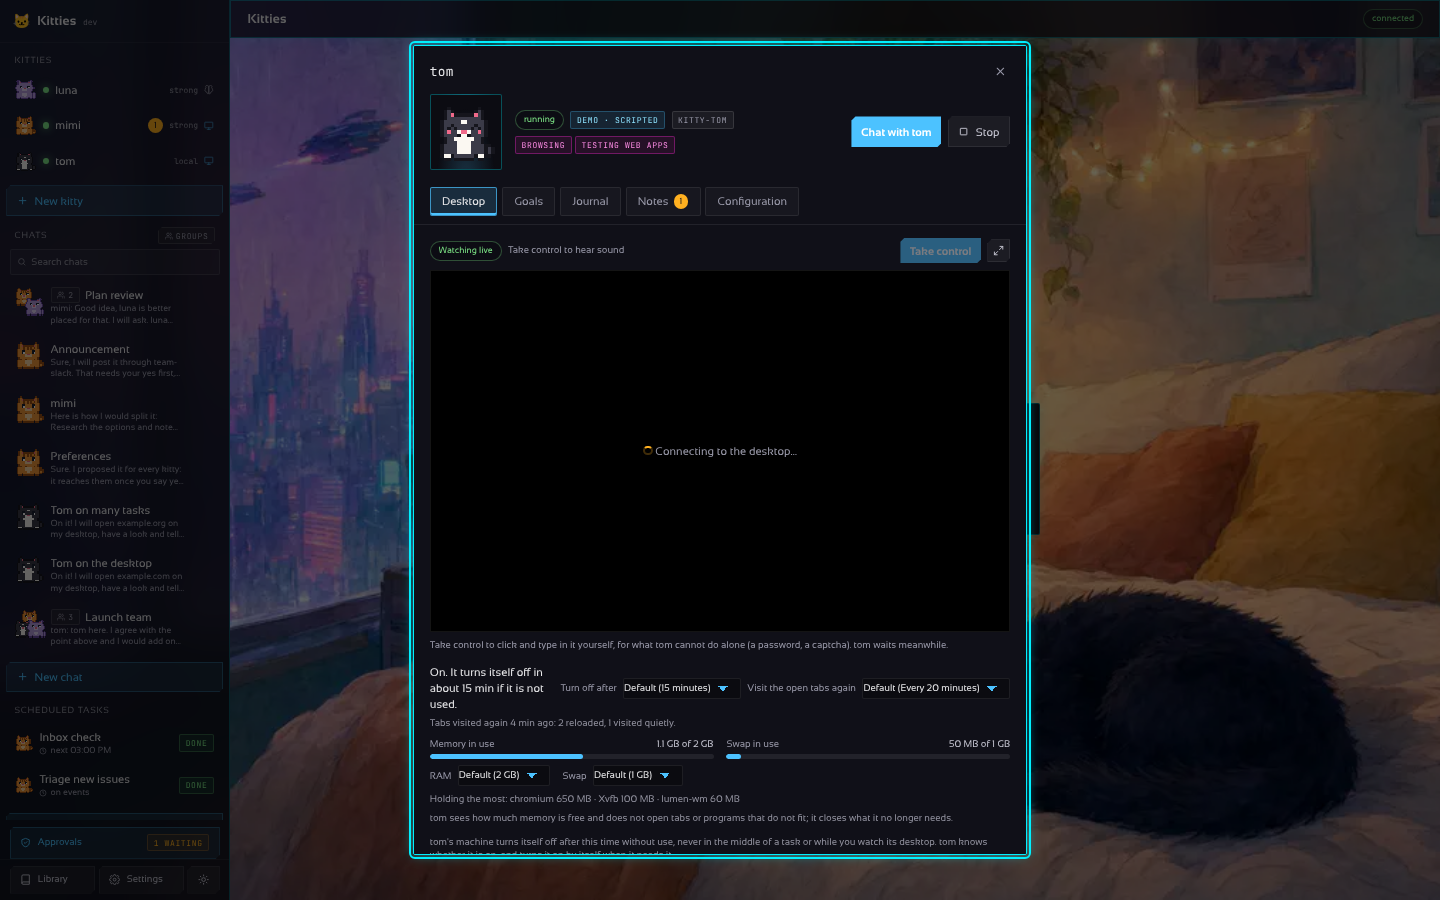
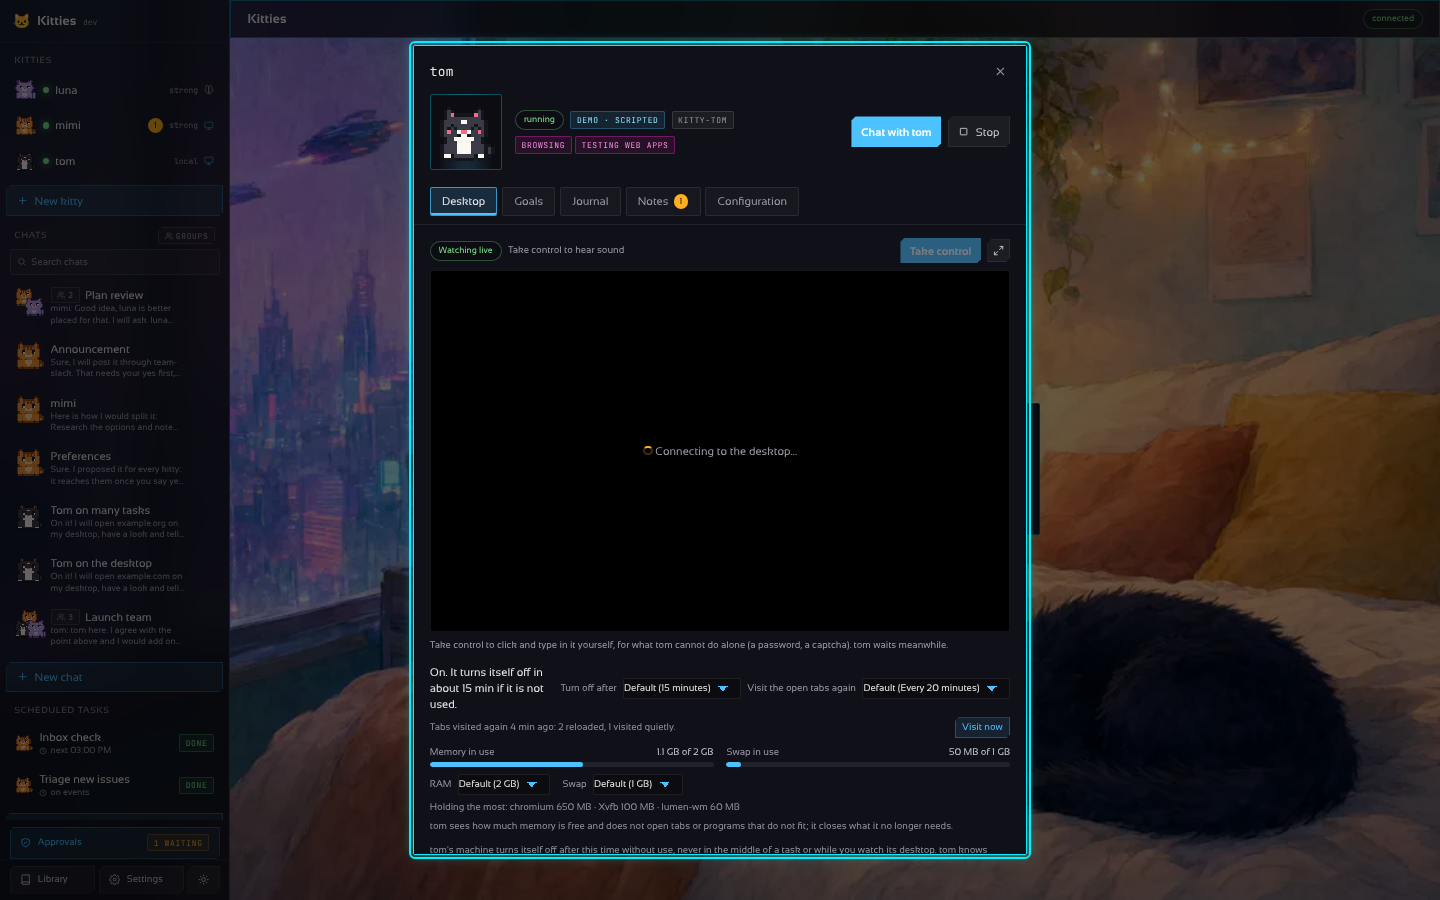
feat(machines): botón «Visitar ahora» para las pestañas del navegador
- POST /v1/kitties/{ref}/browser/visit corre kitty-refresh --once y devuelve
  browser_visits; la máquina debe estar encendida.
- Botón en la ventana del kitty (Escritorio) junto a la última visita (EN/ES/PT).
- Tests Go (orquestador y gateway), demo, e2e, captura (docs y landing), docs.

Claude-Session: https://claude.ai/code/session_017Z7sUbKAKG6YcFUj1UzYkm

Changed region(s): [[0.2812, 0.7778, 0.6875, 0.9644], [0.6562, 0.8089, 0.7188, 0.84]]

diff --git a/desktop/frontend/src/MachinePower.tsx b/desktop/frontend/src/MachinePower.tsx
@@ -91,6 +91,7 @@ export default function MachinePower({
   const [power, setPower] = useState<Power | null>(null);
   const [memory, setMemory] = useState<Memory | undefined>(undefined);
   const [visits, setVisits] = useState<BrowserVisits | undefined>(undefined);
+  const [visiting, setVisiting] = useState(false);
   const [err, setErr] = useState("");
   const load = () =>
     api
@@ -131,6 +132,17 @@ export default function MachinePower({
         : { browser_refresh_minutes: Number(value) },
     );
   const refresh = power.browser_refresh_minutes;
+  const visitNow = async () => {
+    setErr("");
+    setVisiting(true);
+    try {
+      setVisits((await api.visitBrowser(kitty.id)).browser_visits);
+    } catch (e) {
+      setErr(errText(e));
+    } finally {
+      setVisiting(false);
+    }
+  };
   const refreshText = (n: number) => (n === 0 ? t("Never") : t("Every {n} minutes", { n }));
   const choices = IDLE_CHOICES.includes(power.auto_off_minutes)
     ? IDLE_CHOICES
@@ -184,10 +196,21 @@ export default function MachinePower({
           </label>
         )}
       </div>
-      {visits && refresh !== 0 && (
-        <p class="text-xs text-[var(--t4)]" data-testid="browser-visits">
-          {visitsText(visits)}
-        </p>
+      {power.state === "on" && refresh !== undefined && (
+        <div class="flex items-center gap-2 flex-wrap text-xs text-[var(--t4)]">
+          <span class="flex-1 min-w-0" data-testid="browser-visits">
+            {visits ? visitsText(visits) : t("The tabs have not been visited again yet.")}
+          </span>
+          <button
+            type="button"
+            class="btn-outline px-2 py-1 text-xs"
+            disabled={visiting}
+            onClick={() => void visitNow()}
+            data-testid="visit-now"
+          >
+            {visiting ? t("Visiting…") : t("Visit now")}
+          </button>
+        </div>
       )}
       <MachineMemory
         kitty={kitty}

diff --git a/desktop/frontend/src/i18n/es/settings.ts b/desktop/frontend/src/i18n/es/settings.ts
@@ -540,6 +540,9 @@ const dict: Dictionary = {
   "Tabs visited again {when}: none open.": "Pestañas visitadas de nuevo {when}: ninguna abierta.",
   "Tabs visited again {when}: {reloaded} reloaded, {quiet} visited quietly.":
     "Pestañas visitadas de nuevo {when}: {reloaded} recargadas, {quiet} visitadas en silencio.",
+  "The tabs have not been visited again yet.": "Las pestañas aún no se han vuelto a visitar.",
+  "Visiting…": "Visitando…",
+  "Visit now": "Visitar ahora",
   "Every {n} minutes": "Cada {n} minutos",
   "Sites like Gmail end a session that sits idle. The browser of each kitty visits its tabs again: it reloads only the ones nobody is using and visits the rest quietly, so nothing typed is lost and the screen does not change.":
     "Sitios como Gmail cierran una sesión inactiva. El navegador de cada kitty vuelve a visitar sus pestañas: recarga solo las que nadie usa y visita las demás en silencio, así no se pierde nada escrito y la pantalla no cambia.",

diff --git a/desktop/frontend/src/i18n/pt/settings.ts b/desktop/frontend/src/i18n/pt/settings.ts
@@ -539,6 +539,9 @@ const dict: Dictionary = {
   "Tabs visited again {when}: none open.": "Abas visitadas de novo {when}: nenhuma aberta.",
   "Tabs visited again {when}: {reloaded} reloaded, {quiet} visited quietly.":
     "Abas visitadas de novo {when}: {reloaded} recarregadas, {quiet} visitadas em silêncio.",
+  "The tabs have not been visited again yet.": "As abas ainda não foram visitadas de novo.",
+  "Visiting…": "Visitando…",
+  "Visit now": "Visitar agora",
   "Every {n} minutes": "A cada {n} minutos",
   "Sites like Gmail end a session that sits idle. The browser of each kitty visits its tabs again: it reloads only the ones nobody is using and visits the rest quietly, so nothing typed is lost and the screen does not change.":
     "Sites como o Gmail encerram uma sessão parada. O navegador de cada kitty visita de novo as suas abas: recarrega só as que ninguém está usando e visita as outras em silêncio, assim nada digitado se perde e a tela não muda.",

diff --git a/desktop/frontend/e2e/screens.spec.ts b/desktop/frontend/e2e/screens.spec.ts
@@ -4115,6 +4115,9 @@ test("a kitty's machine is turned on and off and has its own idle time", async (
   await expect(power.getByTestId("browser-visits")).toContainText(
     "4 min ago: 2 reloaded, 1 visited quietly",
   );
+  // Visit now: the tabs are visited again at once.
+  await power.getByTestId("visit-now").click();
+  await expect(power.getByTestId("browser-visits")).toContainText("just now: 3 reloaded");
   // How often its browser visits its tabs again: the default for every kitty, or its own.
   const refresh = power.getByTestId("browser-refresh");
   await expect(refresh).toHaveValue("default");

diff --git a/desktop/frontend/src/api.ts b/desktop/frontend/src/api.ts
@@ -977,6 +977,9 @@ export const api = {
       "GET",
       `/v1/kitties/${ref}/power`,
     ),
+  // visitBrowser visits the open tabs of a kitty's browser again now (their sessions renewed).
+  visitBrowser: (ref: string) =>
+    request<{ browser_visits: BrowserVisits }>("POST", `/v1/kitties/${ref}/browser/visit`),
   // machines are the RAM and swap of the machines without values of their own.
   machines: () => request<Machines>("GET", "/v1/settings/machines"),
   setMachines: (m: { memory_mb: number; swap_mb: number; browser_refresh_minutes?: number }) =>

diff --git a/internal/demo/demo.go b/internal/demo/demo.go
@@ -276,12 +276,13 @@ type Desktop struct {
 	running map[string]bool
 	opened  map[string]string
 	clicks  map[string]int
-	clip    map[string]string // the clipboard of each display
+	clip    map[string]string    // the clipboard of each display
+	visited map[string]time.Time // when kitty-refresh last visited the tabs, by display
 }
 
 // NewDesktop creates the demo runtime.
 func NewDesktop() *Desktop {
-	return &Desktop{running: map[string]bool{}, opened: map[string]string{}, clicks: map[string]int{}, clip: map[string]string{}}
+	return &Desktop{running: map[string]bool{}, opened: map[string]string{}, clicks: map[string]int{}, clip: map[string]string{}, visited: map[string]time.Time{}}
 }
 
 // Up implements orchestrator.Containers.
@@ -353,10 +354,16 @@ func (d *Desktop) Exec(_ context.Context, name string, argv ...string) (string, 
 		return d.clip[name], nil
 	case "cat":
 		if len(argv) == 2 && argv[1] == kitty.BrowserVisitsFile {
-			// A drawn browser whose tabs were visited a few minutes ago.
+			// A drawn browser whose tabs were visited a few minutes ago, or just now when asked.
+			if at, ok := d.visited[name]; ok {
+				return fmt.Sprintf(`{"at": %d, "tabs": 3, "reloaded": 3, "quiet": 0, "kept": 0, "skipped": 0}`, at.Unix()), nil
+			}
 			return fmt.Sprintf(`{"at": %d, "tabs": 3, "reloaded": 2, "quiet": 1, "kept": 0, "skipped": 0}`, time.Now().Add(-4*time.Minute).Unix()), nil
 		}
 		return "(demo) " + strings.Join(argv, " ") + "\n", nil
+	case "kitty-refresh":
+		d.visited[name] = time.Now()
+		return "(demo) the tabs were visited again\n", nil
 	case "kitty-theme":
 		return "theme " + strings.Join(argv[1:], " "), nil
 	case "sh":

diff --git a/internal/gateway/desktop.go b/internal/gateway/desktop.go
@@ -36,6 +36,7 @@ func (s *Server) desktopRoutes() {
 	s.mux.Handle("POST /v1/desktops/updates", api(s.handleUpdateDesktops))
 	s.mux.Handle("GET /v1/kitties/{ref}/power", api(s.handlePower))
 	s.mux.Handle("POST /v1/kitties/{ref}/power", api(s.handleSetPower))
+	s.mux.Handle("POST /v1/kitties/{ref}/browser/visit", api(s.handleVisitBrowser))
 	s.mux.Handle("GET /v1/settings/machines", api(s.handleMachines))
 	s.mux.Handle("PUT /v1/settings/machines", api(s.handleSetMachines))
 }
@@ -48,6 +49,27 @@ type MemoryReader interface {
 // VisitReader is what the last pass over a machine's browser tabs did (kitty-refresh).
 type VisitReader interface {
 	BrowserVisits(ctx context.Context, ref string) (kitty.BrowserVisits, bool)
+}
+
+// Visitor visits a machine's browser tabs again now.
+type Visitor interface {
+	VisitBrowserNow(ctx context.Context, ref string) (kitty.BrowserVisits, error)
+}
+
+// handleVisitBrowser visits the open tabs of a kitty's browser again now, so their sessions are
+// renewed: {"browser_visits": {...}} with what it did.
+func (s *Server) handleVisitBrowser(w http.ResponseWriter, r *http.Request) {
+	v, ok := s.fleet.(Visitor)
+	if !ok {
+		fail(w, http.StatusNotFound, errors.New("this gateway cannot visit the browser's tabs"))
+		return
+	}
+	visits, err := v.VisitBrowserNow(r.Context(), r.PathValue("ref"))
+	if err != nil {
+		fail(w, powerCode(err), err)
+		return
+	}
+	reply(w, http.StatusOK, map[string]any{"browser_visits": visits})
 }
 
 // Machiner is the RAM and swap every kitty's machine gets unless it has its own.

diff --git a/internal/gateway/machines_test.go b/internal/gateway/machines_test.go
@@ -28,6 +28,13 @@ func (m *memoryFleet) BrowserVisits(context.Context, string) (kitty.BrowserVisit
 	return kitty.BrowserVisits{At: time.Unix(1794000000, 0).UTC(), Tabs: 2, Reloaded: 1, Quiet: 1}, true
 }
 
+func (m *memoryFleet) VisitBrowserNow(_ context.Context, ref string) (kitty.BrowserVisits, error) {
+	if ref != "ana" {
+		return kitty.BrowserVisits{}, errors.New("no such kitty")
+	}
+	return kitty.BrowserVisits{At: time.Unix(1794000600, 0).UTC(), Tabs: 2, Reloaded: 2}, nil
+}
+
 func (m *memoryFleet) Machines() orchestrator.MachinesView {
 	return orchestrator.MachinesView{MachineDefaults: m.defaults, EngineMB: 8192}
 }
@@ -61,6 +68,14 @@ func TestMachinesAndMemory(t *testing.T) {
 	}
 	if v, _ := got["browser_visits"].(map[string]any); v["tabs"] != float64(2) || v["reloaded"] != float64(1) {
 		t.Errorf("power with the last visit to its tabs: %v", got)
+	}
+	if code, got, _ := call(t, srv, "POST", "/v1/kitties/ana/browser/visit", "tok", nil); code != 200 {
+		t.Errorf("visit now = %d %v", code, got)
+	} else if v, _ := got["browser_visits"].(map[string]any); v["reloaded"] != float64(2) {
+		t.Errorf("visit now = %v", got)
+	}
+	if code, _, _ := call(t, plain, "POST", "/v1/kitties/ana/browser/visit", "tok", nil); code != 404 {
+		t.Errorf("without a visitor = %d", code)
 	}
 	m.memErr = errors.New("cannot tell")
 	if _, got, _ = call(t, srv, "GET", "/v1/kitties/ana/power", "tok", nil); got["memory"] != nil {

diff --git a/internal/orchestrator/memory.go b/internal/orchestrator/memory.go
@@ -3,6 +3,7 @@ package orchestrator
 import (
 	"context"
 	"errors"
+	"fmt"
 	"strconv"
 	"sync"
 	"time"
@@ -279,6 +280,32 @@ func (m *Manager) BrowserVisits(ctx context.Context, ref string) (kitty.BrowserV
 		return kitty.BrowserVisits{}, false
 	}
 	return kitty.ParseBrowserVisits(out)
+}
+
+// VisitBrowserNow visits the open tabs of a kitty's browser again now (kitty-refresh --once):
+// the tabs nobody is using are reloaded, the rest visited quietly. The machine must be on; it does
+// not count as a use of it.
+func (m *Manager) VisitBrowserNow(ctx context.Context, ref string) (kitty.BrowserVisits, error) {
+	k, err := m.Get(ref)
+	if err != nil {
+		return kitty.BrowserVisits{}, err
+	}
+	if !k.Desktop {
+		return kitty.BrowserVisits{}, kitty.ErrNoMachine
+	}
+	if k.Status != kitty.StatusRunning {
+		return kitty.BrowserVisits{}, errors.New(k.Name + "'s machine is not on")
+	}
+	run, cancel := context.WithTimeout(ctx, 90*time.Second)
+	defer cancel()
+	if _, err := m.ctr().Exec(run, k.Container, kitty.VisitNowArgv...); err != nil {
+		return kitty.BrowserVisits{}, fmt.Errorf("the tabs could not be visited: %w", err)
+	}
+	v, ok := m.BrowserVisits(ctx, k.ID)
+	if !ok {
+		return kitty.BrowserVisits{}, errors.New("the browser did not say what it visited (is it open?)")
+	}
+	return v, nil
 }
 
 // forgetMemory drops the last reading of a machine, after something changed it.

diff --git a/internal/orchestrator/memory_test.go b/internal/orchestrator/memory_test.go
@@ -275,3 +275,29 @@ func TestMemoryReading(t *testing.T) {
 		t.Error("a machine that is off")
 	}
 }
+
+func TestVisitBrowserNow(t *testing.T) {
+	m, f, solo := limitManager(t)
+	ctx := context.Background()
+	if _, err := m.VisitBrowserNow(ctx, solo.ID); err == nil {
+		t.Error("a machine that is off visited its tabs")
+	}
+	m.mu.Lock()
+	m.kitties[solo.ID].Status = kitty.StatusRunning
+	m.mu.Unlock()
+	if f.outputs == nil {
+		f.outputs = map[string]string{}
+	}
+	if _, err := m.VisitBrowserNow(ctx, solo.ID); err == nil {
+		t.Error("no summary is an error")
+	}
+	f.outputs["cat"] = `{"at": 1794000000, "tabs": 2, "reloaded": 2}`
+	f.execs = nil
+	v, err := m.VisitBrowserNow(ctx, solo.ID)
+	if err != nil || v.Reloaded != 2 || v.Tabs != 2 {
+		t.Fatalf("visits = %+v %v", v, err)
+	}
+	if got := strings.Join(f.execs, "\n"); !strings.Contains(got, "kitty-refresh --once") || !strings.Contains(got, kitty.BrowserVisitsFile) {
+		t.Errorf("execs = %q", got)
+	}
+}

diff --git a/internal/kitty/visits.go b/internal/kitty/visits.go
@@ -9,6 +9,9 @@ import (
 // counts only, never an address or what a page says.
 const BrowserVisitsFile = "/dev/shm/kitty-refresh.json"
 
+// VisitNowArgv visits the open tabs again now, with the same care as the timed passes.
+var VisitNowArgv = []string{"kitty-refresh", "--once"}
+
 // BrowserVisitsArgv prints it (nothing when no pass has run yet).
 var BrowserVisitsArgv = []string{"cat", BrowserVisitsFile}
 

diff --git a/docs/API.md b/docs/API.md
@@ -8,6 +8,7 @@
 | `POST /v1/kitties/{ref}/start` · `/stop` · `DELETE /v1/kitties/{ref}` | lifecycle, by id or name |
 | `GET /v1/kitties/{ref}/power` · `POST /v1/kitties/{ref}/power` `{on, force}` | its machine: `{state: on\|starting\|off\|error, step, off_reason, auto_off_minutes, in_use, in_use_by, off_in_seconds…}`; `memory_mb, swap_mb, memory_custom, memory_pending, memory_local` (its limits); `memory: {total_mb, used_mb, available_mb, swap_total_mb, swap_used_mb, top}` when it is on; `step: desktop` while its container is up and its desktop still coming up; turn it on (202, it comes up in the background) or off (409 when something uses it, unless `force`) |
 | `PATCH /v1/kitties/{ref}` `{auto_off_minutes}` | minutes without use before its machine turns itself off (`0` never; `auto_off_default: true` goes back to the gateway's default) |
+| `POST /v1/kitties/{ref}/browser/visit` | visits the open tabs of its browser again now (`kitty-refresh --once`: tabs nobody uses are reloaded, the rest visited quietly); `{browser_visits}` with what it did; its machine must be on |
 | `PATCH /v1/kitties/{ref}` `{browser_refresh_minutes}` | how often its browser visits its open tabs again (`0` never; `browser_refresh_default: true` goes back to the default for every kitty); its power shows `browser_refresh_minutes, browser_refresh_custom`, and `browser_visits: {at, tabs, reloaded, quiet, kept, skipped}` (the last pass, while it is on) |
 | `PATCH /v1/kitties/{ref}` `{memory_mb, swap_mb}` | the RAM and swap of its machine, in MB (together; `memory_default: true` goes back to the defaults); applied at once when the engine can, else `memory_pending` until it is turned on again |
 | `GET /v1/settings/machines` · `PUT /v1/settings/machines` `{memory_mb, swap_mb, browser_refresh_minutes}` | the RAM and swap of every machine without its own, and `engine_mb`, what the container engine has; `browser_refresh_minutes` is how often the browsers visit their tabs again (`0` never; left out, it is kept) |
